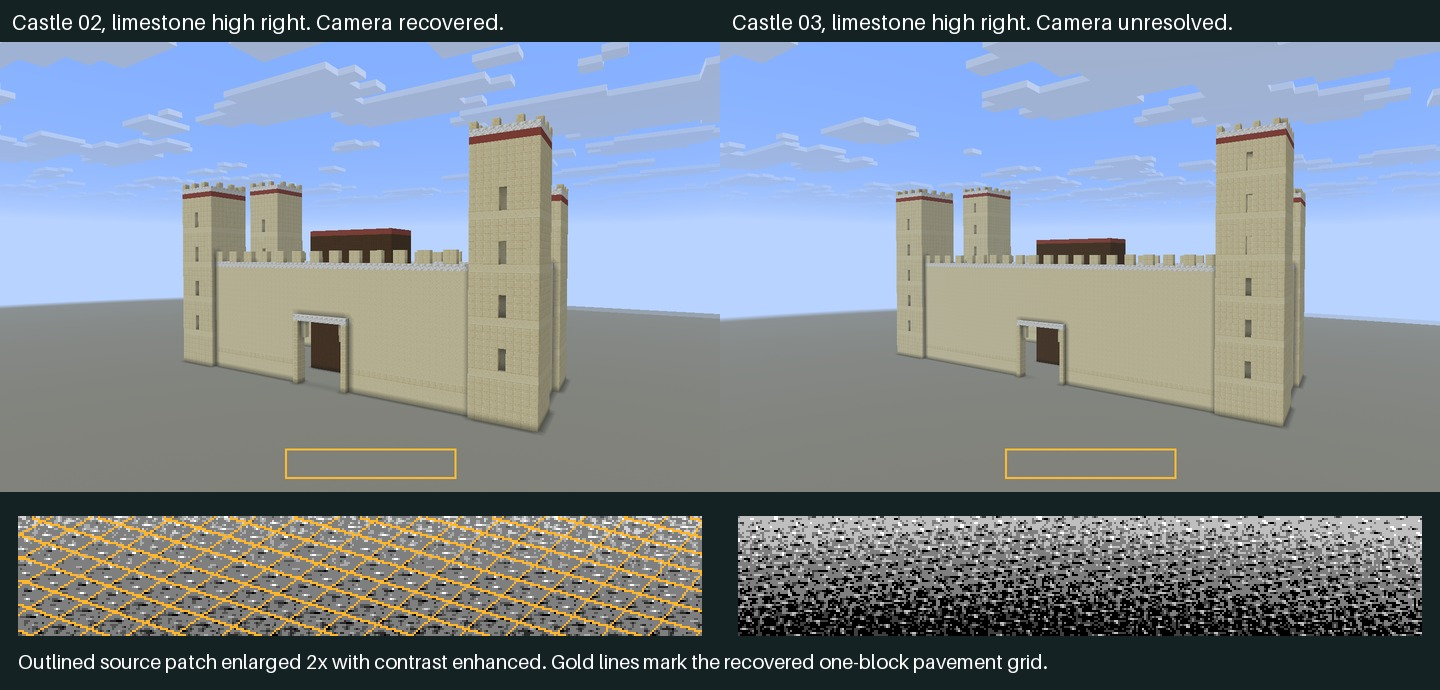
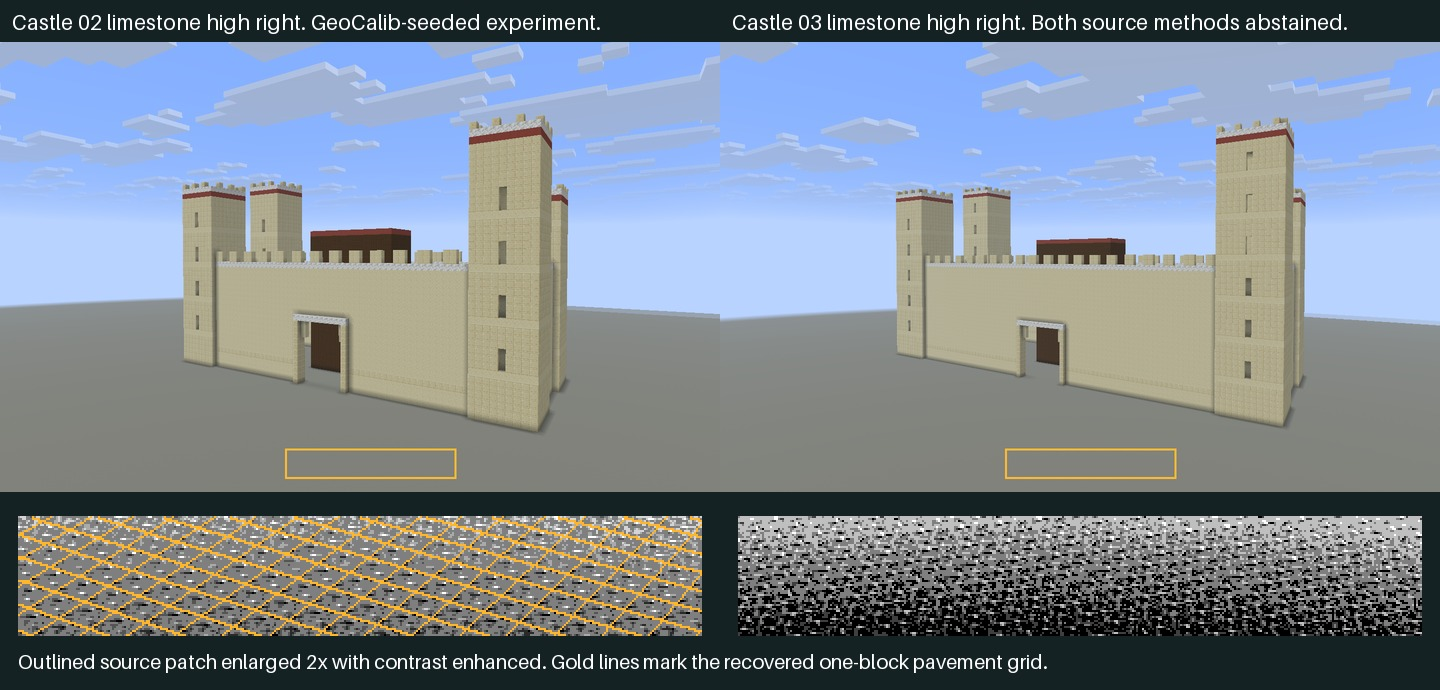
Report calibrated camera gains, material scores and remaining failures

Changed region(s): [[0.5938, 0.0, 0.9375, 0.0609], [0.0938, 0.0, 0.4062, 0.0609]]

diff --git a/benchmark/camera_recovery_round.py b/benchmark/camera_recovery_round.py
@@ -1,0 +1,65 @@
+"""Assemble camera review panels from the independent export grades and score witnesses."""
+
+from benchmark.camera_recovery_panel import panel
+from benchmark.expanded_baseline import ROOT, WORKTREES, digest, read, save
+
+
+REVIEWS = ROOT / "benchmark/reviews"
+OUT = REVIEWS / "camera-recovery-next-01"
+
+
+def artifact(worktree, name):
+    candidates = [REVIEWS / name, WORKTREES / worktree / "benchmark/reviews" / name]
+    return next(path for path in candidates if path.is_file())
+
+
+def main():
+    old = REVIEWS / "camera-model-controls-01/independent-matched-cases.json.gz"
+    native = artifact("camera-native-recovery-controls", "camera-native-recovery-controls-01/independent-default-cases.json.gz")
+    combined = artifact("camera-native-recovery-controls", "camera-native-recovery-controls-01/independent-composed-cases.json.gz")
+    learned = artifact("camera-native-fit-confidence", "camera-native-fit-confidence-01/cases.json.gz")
+    silhouette = artifact("camera-silhouette-ruler", "camera-silhouette-ruler-01/manifest.json")
+    incumbent = {r["id"]: r["pack_sha256"] for r in read(old)}
+    proof = read(silhouette)
+    if dict(proof["incumbent_pack_hashes"]) != incumbent or digest(old) != proof["controls"]:
+        raise ValueError("Silhouette incumbent inventory differs")
+    methods = [
+        ("camera-native-floor", "Native pavement texture fit", old, native,
+         "A model-free image-boundary search verifies light gray concrete in native pixels. "
+         "It adds 63 cameras after the previous camera stages abstain."),
+        ("camera-native-geo-seed", "Optional GeoCalib seed for the native pavement fit", native, combined,
+         "The control already includes the model-free native fit. A learned horizon and focal seed "
+         "recovers one training Pillars image and one previously reviewed Castle high-right image."),
+        ("camera-silhouette-ruler", "Camera from visible silhouette steps", old, old,
+         "Independent scale and ground checks accepted zero of 70. The 288 decoded control packs carry forward. "
+         "Verifiable training steps rose one block. Verifiable Castle steps rose two blocks."),
+        ("camera-native-fit-confidence", "Learned confidence for native camera proposals", combined, learned,
+         "The control includes the native pavement fit and optional learned seed. Texture and unit-repeat "
+         "confidence recover one training Pillars image. No additional Harbor or Castle view passed."),
+    ]
+    panels = []
+    inputs = {}
+    for tag, name, before, after, note in methods:
+        result, scores = panel(after, tag, name, note, before)
+        target = OUT / f"{tag}-summary.json"
+        save(target, dict(cases_sha256=digest(after), baseline_cases_sha256=digest(before), datasets=scores))
+        result["sha256"] = digest(target)
+        save(OUT / f"{tag}-panel.json", result)
+        panels.append(result)
+        inputs[tag] = {"baseline": digest(before), "source": digest(after)}
+    save(OUT / "panel-entries.json", dict(experiments=panels))
+    save(OUT / "manifest.json", dict(
+        base="62611ee", minecraft="Java 26.3", views={"fixed-104": 104, "visible-builds-v3": 144, "decorative-builds-v1": 40},
+        frozen_frames_sha256=digest(REVIEWS / "camera-model-controls-01/frames.json"), method_inputs_sha256=inputs,
+        source_freezes={"experiment/camera-native-floor-inverse": "d6990f9", "experiment/camera-silhouette-ruler": "493350c",
+                        "experiment/camera-native-fit-confidence": "38eb566"},
+        native_runtime_candidate="aac7da7", camera_scoring="Fit one integer XYZ shift on alternating unique visible native vertices, test the others.",
+        placement_scoring="Strict and facade-priority geometry after one global integer translation. Evaluate IDs using the same shift.",
+        cohort_note="Original family splits. Harbor and Castle are reviewed regression families.",
+        assets_sha256={p.name: digest(p) for p in sorted(OUT.iterdir()) if p.is_file() and p.suffix in (".md", ".json", ".gz", ".jpg")
+                       and p.name != "manifest.json"},
+    ))
+
+
+if __name__ == "__main__":
+    main()

diff --git a/benchmark/camera_recovery_panel.py b/benchmark/camera_recovery_panel.py
@@ -8,26 +8,43 @@ from benchmark.expanded_baseline import ROOT, digest, read, save
 from benchmark.pipeline_impact import challenger_rows
 
 
-def panel(cases_file, method_id, name, note):
+def panel(cases_file, method_id, name, note, baseline_file):
     controls = ROOT / "benchmark/reviews/camera-model-controls-01"
-    baseline = read(controls / "independent-matched-cases.json.gz")
+    baseline = read(baseline_file)
     frames = read(controls / "frames.json")
+    manifest = read(controls / "manifest.json")["hashes"]
+    for file in ("frames.json", "inventory.json.gz", "baseline-cases.json.gz"):
+        if digest(controls / file) != manifest[file]:
+            raise ValueError(f"Frozen control digest mismatch: {file}")
+    inventory = {r["id"]: r for r in read(controls / "inventory.json.gz")}
+    archived = {r["id"]: r for r in read(controls / "baseline-cases.json.gz")["ordinary"]}
     old = {r["id"]: r for r in baseline}
     cases = read(cases_file)
     by_id = {r["id"]: r for r in cases}
-    if len(cases) != 288 or by_id.keys() != old.keys():
+    if len(cases) != 288 or len(old) != 288 or by_id.keys() != old.keys() or old.keys() != inventory.keys():
         raise ValueError("Complete 288-frame decoded case inventory required")
     for key, before in old.items():
         after = by_id[key]
-        for field in ("dataset", "split", "source_sha256", "reference_sha256", "visible_truth", "required_truth"):
+        for field in ("dataset", "split", "source_sha256", "visible_truth", "required_truth"):
             if before[field] != after[field]:
                 raise ValueError(f"Frozen {field} differs for {key}")
+        record = inventory[key]
+        required_refs = record["source_reference_sha256"]
+        if not required_refs or record["rgb_sha256"] != before["source_sha256"]:
+            raise ValueError(f"Incomplete or mismatched inventory for {key}")
+        for r in (before, after):
+            if "reference_sha256" in r:
+                if required_refs != r["reference_sha256"]:
+                    raise ValueError(f"Changed reference for {key}")
+            elif (r["dataset"] != "fixed-104" or r["pack_sha256"] != record["ordinary"]["zip_sha256"]
+                  or required_refs != archived[key]["reference_sha256"]):
+                raise ValueError(f"Cannot recover original verified fixed reference for {key}")
         if before["camera_usable"] or not after["camera_usable"]:
             for field in ("pack_sha256", "geometry", "scores"):
                 if before[field] != after[field]:
                     raise ValueError(f"Retained {field} differs for {key}")
     pooled = summary(cases, frames)
-    prior = read(controls / "independent-matched-summary.json")["datasets"]
+    prior = summary(baseline, frames)
 
     def arm(row):
         return {
@@ -52,14 +69,15 @@ def panel(cases_file, method_id, name, note):
 def main():
     parser = argparse.ArgumentParser(description=__doc__)
     parser.add_argument("--cases", type=Path, required=True)
+    parser.add_argument("--baseline-cases", type=Path, default=ROOT / "benchmark/reviews/camera-model-controls-01/independent-matched-cases.json.gz")
     parser.add_argument("--id", required=True)
     parser.add_argument("--name", required=True)
     parser.add_argument("--note", required=True)
     parser.add_argument("--out", type=Path, default=ROOT / "benchmark/reviews/camera-recovery-next-01")
     args = parser.parse_args()
-    method, pooled = panel(args.cases, args.id, args.name, args.note)
+    method, pooled = panel(args.cases, args.id, args.name, args.note, args.baseline_cases)
     target = args.out / f"{args.id}-summary.json"
-    save(target, {"cases_sha256": digest(args.cases), "datasets": pooled})
+    save(target, {"cases_sha256": digest(args.cases), "baseline_cases_sha256": digest(args.baseline_cases), "datasets": pooled})
     method["sha256"] = digest(target)
     save(args.out / f"{args.id}-panel.json", method)
 

diff --git a/benchmark/camera_floor_patch_diagnosis.py b/benchmark/camera_floor_patch_diagnosis.py
@@ -1,0 +1,73 @@
+"""Reference-only audit of the actual native verification samples on five abstentions."""
+
+from itertools import product
+
+import benchmark
+import numpy as np
+from PIL import Image
+
+from benchmark.camera_metrics import truth_camera
+from benchmark.expanded_baseline import ROOT, SOURCE, WORKTREES, read, save
+from engine.camera_atlas_floor import _atlas
+
+
+def main():
+    native = WORKTREES / "camera-native-floor-inverse"
+    benchmark.__path__.append(str(native / "benchmark"))
+    from benchmark.camera_native_floor import atlas_scan, correlation, coords, patches, sample_uv, templates
+    atlas = _atlas("26.3")
+    ids = [atlas.labels.index("light_gray_concrete")]
+    grades = read(ROOT / "benchmark/reviews/camera-recovery-next-01/native-calibration.json.gz")
+    rows = []
+    for row in grades["cases"]:
+        if row["accepted"]:
+            continue
+        key = row["id"]
+        frame = SOURCE / "visible-builds-v3/data" / row["split"] / "frames" / key
+        with Image.open(frame / "rgb.png") as image:
+            samples = patches(image, bounds=((.04, .34), (.61, .84), (.89, .99), (.40, .54)))
+        with np.load(frame / "labels.npz") as labels:
+            face = labels["face_id"]
+        exact = truth_camera(read(frame / "camera.json"))
+        ground = 1 + read(frame / "frame.json")["ground_y"]
+        exact[:, 3] += exact[:, 1] * ground
+        inv = np.linalg.inv(exact[:, [0, 2, 3]])
+        # The release atlas is periodic in whole blocks. Move the calculation near zero.
+        start = inv @ samples[0][0][:, 0]
+        inv[:2] -= np.floor(start[:2] / start[2])[:, None] * inv[2]
+        photo = atlas_scan(inv, samples[:2], atlas, ids)
+        tile = templates(atlas, ids, photo["n"])[0, photo["orientation"]]
+        phase = np.array(photo["phase"])[:, None]
+        # With the correct chart only, fit a nonnegative mixture of adjacent mip
+        # levels on the first region. The other three supply a separate check.
+        n = photo["n"]
+        sizes = [s for s in (2 * n, n, n // 2) if 2 <= s <= 16]
+        signals = []
+        for screen, _ in samples:
+            signals.append(np.stack([
+                sample_uv(templates(atlas, ids, s)[0, photo["orientation"]],
+                          coords(inv, screen, s) + phase * s / n, "linear") for s in sizes]))
+        choices = []
+        for weights in product(range(11), repeat=len(sizes)):
+            if sum(weights) == 10:
+                choices.append((correlation(samples[0][1], np.array(weights) @ signals[0]), weights))
+        _, weights = max(choices)
+        regions = []
+        for (screen, target), levels in zip(samples, signals):
+            x, y = np.floor(screen[:2]).astype(int)
+            signal = sample_uv(tile, coords(inv, screen, photo["n"]) + phase, photo["mode"])
+            occupied = face[y, x] != 0
+            regions.append(dict(samples=len(x), visible_structure=int(occupied.sum()),
+                                native_signal_sd=float(target.std()), exact_chart_correlation=correlation(target, signal),
+                                west_fit_mip_mixture_correlation=correlation(target, np.array(weights) @ levels),
+                                excluding_labeled_structure_correlation=correlation(target[~occupied], signal[~occupied])))
+        rows.append(dict(id=key, source_sha256=row["source_sha256"], mip=photo["n"], filter=photo["mode"],
+                         diagnostic_mip_blend=dict(sizes=sizes, weights_in_tenths=list(weights)), regions=regions))
+    output = ROOT / "benchmark/reviews/camera-recovery-next-01/five-abstention-regions.json"
+    save(output, rows)
+    for r in rows:
+        print(r["id"], [(z["visible_structure"], z["samples"], round(z["exact_chart_correlation"], 3)) for z in r["regions"]])
+
+
+if __name__ == "__main__":
+    main()

diff --git a/benchmark/camera_recovery_sheet.py b/benchmark/camera_recovery_sheet.py
@@ -3,7 +3,8 @@
 import numpy as np
 from PIL import Image, ImageDraw
 
-from benchmark.expanded_baseline import ROOT, SOURCE, WORKTREES, read
+from benchmark.camera_recorded_examples import COLORS, example
+from benchmark.expanded_baseline import COHORTS, ROOT, SOURCE, WORKTREES, frames, read
 
 
 def floor_patch(image, bounds, projection):
@@ -31,12 +32,16 @@ def main():
     sheet = Image.new("RGB", (1440, 690), "#152224")
     text = ImageDraw.Draw(sheet)
     for column, (layout, title) in enumerate([
-            (2, "Castle 02, limestone high right. Camera recovered."),
-            (3, "Castle 03, limestone high right. Camera unresolved.")]):
+            (2, "Castle 02 limestone high right. GeoCalib-seeded experiment."),
+            (3, "Castle 03 limestone high right. Both source methods abstained.")]):
         key = f"test-castle-0{layout}-limestone-high-right"
         frame = SOURCE / "visible-builds-v3/data/test/frames" / key
         image = Image.open(frame / "rgb.png").convert("RGB")
         projection = read(run / (key + ".json"))["camera"]["P"]
+        if layout == 2:
+            assert read(run / (key + ".json"))["arm"] == "geocalib" and projection is not None
+        else:
+            assert projection is None
         bounds = (570, 813, 912, 873)
         patch = floor_patch(image, bounds, projection)
         ImageDraw.Draw(image).rectangle(bounds, outline="#ffbb32", width=4)
@@ -47,6 +52,31 @@ def main():
     text.text((18, 649), "Outlined source patch enlarged 2x with contrast enhanced. Gold lines mark the recovered one-block pavement grid.",
               fill="white", font_size=20)
     sheet.save(output / "castle-source-floor.jpg", quality=92)
+    datasets = {e["id"]: e for e in frames(SOURCE, COHORTS)}
+    scored = Image.new("RGB", (1160, 875), "#152224")
+    paint = ImageDraw.Draw(scored)
+    paint.text((10, 6), "Model-free boundary cameras and the resulting exported builds", font_size=24, fill="white")
+    for n, (label, color) in enumerate(COLORS.items()):
+        x = 12 + n * 287
+        paint.rectangle((x, 42, x + 12, 54), fill=color)
+        paint.text((x + 18, 37), label, font_size=15, fill="white")
+    for index, (key, label) in enumerate([
+        ("test-castle-01-limestone-high-right", "Castle 01 limestone high right"),
+        ("validation-harbor-03-seafoam-high-right", "Harbor 03 seafoam high right"),
+    ]):
+        item = read(run.parent / "scores" / (key + ".json"))
+        assert read(run / (key + ".json"))["arm"] == "boundary"
+        photo, overlay, _ = example(datasets[key], run.parent / "builds", expected=item)
+        y = 99 + index * 404
+        paint.text((12, y - 29), label, font_size=18, fill="white")
+        paint.text((590, y - 29), "Decoded export after whole-build alignment", font_size=18, fill="white")
+        for x, view in [(12, photo), (590, overlay)]:
+            scored.paste(view.resize((558, 349), Image.Resampling.LANCZOS), (x, y))
+        s = item["geometry"]["strict"]
+        paint.text((12, y + 351), "Source image", font_size=16, fill="white")
+        paint.text((590, y + 351), f'{s["correct"]:,} correct, {s["missed"]:,} missed, {s["extras"]:,} extra positions.',
+                   font_size=16, fill="white")
+    scored.save(output / "decoded-castle-harbor.jpg", quality=91)
 
 
 if __name__ == "__main__":

diff --git a/benchmark/camera_recorded_examples.py b/benchmark/camera_recorded_examples.py
@@ -25,11 +25,12 @@ COLORS = {
 }
 
 
-def example(entry, output):
+def example(entry, output, expected=None):
     folder = Path(entry['frame'])
     reference = load_reference(entry)
     build = output / entry['dataset'] / entry['id']
-    expected = read(build / 'score.json')
+    if expected is None:
+        expected = read(build / 'score.json')
     camera = read(build / 'build-manifest.json')['placement']
     actual, predicted = evaluate_pack(entry, build / 'reconstruction.zip', camera, reference=reference)
     if actual['pack_sha256'] != expected['pack_sha256'] or actual['geometry'] != expected['geometry']:

diff --git a/benchmark/camera_residual_opportunity.py b/benchmark/camera_residual_opportunity.py
@@ -67,7 +67,7 @@ def main():
     }
     directory = REVIEWS / "camera-recovery-next-01"
     directory.mkdir(exist_ok=True)
-    (directory / "opportunity.json").write_text(json.dumps(report, indent=2) + "\n", encoding="utf-8")
+    (directory / "opportunity.json").write_bytes((json.dumps(report, indent=2) + "\n").encode("utf-8"))
 
 
 if __name__ == "__main__":

diff --git a/benchmark/reviews/camera-recovery-next-01/README.md b/benchmark/reviews/camera-recovery-next-01/README.md
@@ -1,5 +1,19 @@
 # Camera recovery on the remaining 70 views
 
+**Promote the model-free native pavement fit.** After the earlier camera stages abstain, it recovers 63 of 70 v3 cameras. Visible Builds v3 strict placement F1 rises from 21.84% to 46.63%, with 49,688 additional correct visible positions and 26,680 additional extras. The absolute gain is 24.79 percentage points. Exact-position-and-ID F1 rises from 14.13% to 28.04%. All 218 previously supported exports retained their hashes.
+
+| Cohort | Camera failures, before → model-free | Strict / facade placement, before → model-free | Strict / facade position + ID, model-free |
+|---|---:|---:|---:|
+| Fixed 104/104 | 0 → 0 | 91.27 / 93.42 → 91.27 / 93.42 | 84.68 / 88.51 |
+| Visible Builds v3 144/144 | 70 → 7 | 21.84 / 22.75 → 46.63 / 48.04 | 28.04 / 29.08 |
+| Decorative Builds v1 40/40 | 0 → 0 | 63.46 / 65.23 → 63.46 / 65.23 | 50.51 / 52.56 |
+
+V3 strict counts are 77,774 correct, 136,376 missed and 41,629 extras. Of correctly placed blocks, 46,771 have the correct material ID (60.14%). Camera coverage is now 137 of 144 views (95.14%). The seven abstentions account for 26,122 misses, while the 137 supported views still miss 110,254 visible positions. The default has the larger remaining opportunity in downstream reconstruction. [Independent model-free grades](../camera-native-recovery-controls-01/independent-default-summary.json)
+
+**Keep the optional GeoCalib seed experimental.** It adds a genuinely accurate camera on one training Pillars and one previously reviewed Castle image. Across v3 this adds 1,798 correct positions, 921 extras and 1,104 correct IDs beyond the model-free fit, giving 47.33% / 48.75% strict / facade placement and 28.47% / 29.52% strict / facade position + ID. Supporting an additional learned model and inference path for one more measured Castle viewpoint needs broader evidence. The real ordinary launcher passed end-to-end checks using the model-free path. [Independent composed grades](../camera-native-recovery-controls-01/independent-composed-summary.json)
+
+## What a supplied camera can recover
+
 At revision `62611ee`, Visible Builds v3 has 70 camera failures and 148,107 required visible positions on those images. Supplying the recorded camera only on those views adds 61,204 correct positions and 29,650 extras in the ordinary downstream reconstruction. Visible Builds v3 strict placement rises from 21.84% to 51.31%. This is a measured diagnostic using existing decoded packs with matching screenshot and reference hashes. It supplies the entire camera projection and does not estimate the performance of a source-only camera method. [Per-cohort reference composition](opportunity.json)
 
 | Dataset | Views | Strict / facade placement, current | Strict / facade placement with recorded cameras on residuals | Strict / facade position + ID with that intervention |
@@ -22,7 +36,25 @@ The floor experiment compared a photographed pavement patch with a bilinearly fi
 
 All 80,158 withheld native vertices were within two pixels. The maximum per-frame median error in relative ground spans was 0.036%. Ordinary ground-ray registration alone gave a worst P90 of 22.33 px on training. The acceptance decision saw only the source image and declared atlas/model inputs; recorded camera and visible-corner data enter at grading. The two model-only recoveries were Pillars 03 marble high-right and Castle 02 limestone high-right. Five images remained without a camera under the combined policy. [Per-image calibration and source fingerprints](native-calibration.json.gz)
 
+The independently decoded Castle 01 limestone high-right export had 1,198 correct, 273 missed and 147 extra positions, for 85.09% strict F1. Its held-corner P90 was 0.14 px. Harbor 03 seafoam high-right achieved 0.10 px, yet its exported build had only 218 correct positions, 1,704 misses and 391 extras, for 17.23% strict F1. The Harbor camera now provides a reliable projection for diagnosing the downstream surface, counting, placement and material decisions.
+
+![Source screenshots and scored decoded exports for the newly calibrated Castle and Harbor views](decoded-castle-harbor.jpg)
+
 ![Castle source views and contrast-enhanced pavement crops showing a new camera and an abstention](castle-source-floor.jpg)
+
+### Can a learned confidence rule recover the last five?
+
+After both native proposal arms, three of the five abstentions still contained a refined pose with disjoint-corner P90 at or below two pixels. Forcing those three actual poses into the ordinary pipeline adds 4,102 correct positions, 1,840 extras and 1,812 exact IDs. This is a reference-selected intervention. The two Castle rear palettes account for 3,779 of the positions. The best available pose on each of the two Castle high-right images still exceeded the calibration tolerance, with P90 errors of 3.01 and 6.19 px. [Three decoded diagnostic exports](rejected-option-exports.json)
+
+The new confidence model used seven measurements of atlas agreement and full-unit versus half-unit pixel repeats. It trained on 72 deduplicated development options across six building families. The source gate recovered only the Pillars development image, contributing 323 correct placements, 551 extras and 255 exact IDs. No additional Castle image passed. Keep `experiment/camera-native-fit-confidence` experimental. The 68-of-70 calibrated-pose ceiling is an opportunity among the offered candidates; the combined source policy actually recovers 65 and the learned extension 66.
+
+On the five abstentions, zero of 98,756 actual native verification samples hit a labeled frontmost structure face. Shadows and other background features are outside these structure labels. With the exact chart, all five selected one 8×8 bilinear mip level. Every Pillars region passed 0.60 correlation, while each Castle image had at least one region below it. In a separate diagnostic the scorer chose a blend of 16×16, 8×8 and 4×4 tile levels on the west region. It improved held-region agreement but still left at least one Castle region per view below 0.60. The projection and thresholds in ordinary inference were unchanged. These results favor a spatially varying sampling model over a foreground mask as the next experiment. [Region counts, fixed-mip and blended-mip measurements](five-abstention-regions.json)
+
+### Can the silhouette supply a different physical ruler?
+
+The independent silhouette trial froze its rule at `493350c` and stored its result at `dd14ec2`. It measured a geometric signal that looks convincing on training buildings. All 46 native-confirmed training step traces rose one block. All 14 confirmed Castle traces rose two blocks. On Harbor, 15 of 16 measured traces combined incompatible points or different planes and one missed native junctions. Inferring a single block from a repeated step would systematically underscale these Castle views.
+
+Independent unit and ground checks accepted zero of 70 residuals and preserved all 288 outputs. An oracle that selected among 12 forced, source-grounded alternatives on seven images found additional translated strict placement versus the earlier empty outputs but every tested pose exceeded two pixels of median error even after one global integer origin adjustment. The native floor method already solved all seven. Keep `experiment/camera-silhouette-ruler` experimental.
 
 ## Two causes left by the floor matcher
 
@@ -51,13 +83,20 @@ Block length here uses the longest of three unit-axis projections at each scored
 
 The previous joint camera and grid trial retained two source-ranked hypotheses on each of 29 images. Another 41 images had no candidate. A reference chooser allowed to see every one of the 58 retained poses finds zero with disjoint-corner 90th-percentile error at or below two native pixels, even after optimizing the relative origin. The best errors were 7.65 px on training, 4.51 px on validation and 9.91 px on test. This measures calibration headroom over actual retained options. The original trial's separate strict-placement oracle used only the four joint proposals it exported. Training a selector over the 58 current poses cannot recover the missing calibrated solution under this criterion.
 
-1. Fit a native-pixel floor renderer first. The recorded-chart development audit can distinguish failures of the previous sampling model from failures to propose a pose. A prospective learned extension would train a small local estimator on synthetic renderings of versioned textures under varied scale, tilt, focal length, phase and rendering filters. Its output would be candidate ground derivatives and uncertainty; withheld native pixel patches could verify the resulting global projection. Test it against the numerical search on the same proposal budget once the source-only proposal deficit is known.
-2. Look for unit-scale evidence on actual visible architectural steps when the floor is unusable. Repeated turns constrain axes, integer ratios and phase. Scaling every length and camera distance by the same integer preserves the silhouette, so independent scale evidence must identify the block unit. A source-only chooser cannot remove that ambiguity if the inputs supply only identical silhouettes.
-3. Test calibrated focal length and rotation from multiple digital crops of the same screenshot only if the missing floor proposals show an orientation bottleneck. Known crop and resize transforms give a consistency check without additional captured views. The earlier GeoCalib experiment showed that an orientation hint alone recovered little beyond a matched image-only search. Generic monocular depth has lower priority until a metric, visible cue can verify its scale.
+1. The native renderer resolved most of the earlier proposal deficit. For the remaining two physically inaccurate high-right poses, a small local estimator trained on synthetic atlas renderings could generate candidate ground derivatives before numerical refinement. Vary projected size, tilt, material, phase and filtering instead of learning the dataset camera settings. Compare against the numerical proposal generator at the same budget. Two reviewed views of one layout offer limited additional coverage; evaluate on another building and different pavement materials before generalizing.
+2. For the two Castle rear palettes that already contain an accurate source proposal, investigate independently predicting pixel appearance across multiple mip levels at different screen heights. The present native rule and the learned repeat-confidence rule both withhold the camera. A direct photometric residual on additional source pixels would test whether filtering, shading or missing phase accounts for the low scores. Do not lower the gate using the known Castle answers.
+3. If camera recovery on other floors remains limited, test consistency of learned focal length and rotation across known digital crops of the same source image, then grade independent block-scale evidence. The earlier GeoCalib experiment showed that an orientation hint alone recovered little beyond a matched image-only search. Generic monocular depth has lower priority until a metric, visible cue can verify its scale.
 
 Run the two diagnostics from `review/camera-recovery-next` with the saved data under the stable checkout. The first uses the standard library. The second uses the existing NumPy benchmark environment.
 
 ```powershell
 python -m benchmark.camera_residual_opportunity
 ../mask-scalelsd/runs/env/Scripts/python.exe -m benchmark.camera_relative_calibration
+../mask-scalelsd/runs/env/Scripts/python.exe -m benchmark.camera_recovery_native_audit
+../mask-scalelsd/runs/env/Scripts/python.exe -m benchmark.camera_floor_patch_diagnosis
+../mask-scalelsd/runs/env/Scripts/python.exe -m benchmark.camera_rejected_option_replay
+../mask-scalelsd/runs/env/Scripts/python.exe -m benchmark.camera_recovery_sheet
+../mask-scalelsd/runs/env/Scripts/python.exe -m benchmark.camera_recovery_round
 ```
+
+The model-free runtime candidate is `aac7da7`. Its experiment report is `7a4bc80`; the independent scorer and all 288-frame grades are `bf6d269`. The source silhouette run is `dd14ec2`, and the confidence model froze at `38eb566`. The report compares actual ordinary exports from the accepted source poses with byte-verified retained controls. The CLI checks include five archived-field source paths and two live model-field runs through the Windows launcher. Across the 63 model-free cameras, all 77,126 withheld native vertices are within two pixels. [Review manifest](manifest.json) · [Scorecard entries](panel-entries.json) · [Independent production checks](../camera-native-recovery-controls-01/independent-production-check.json)
